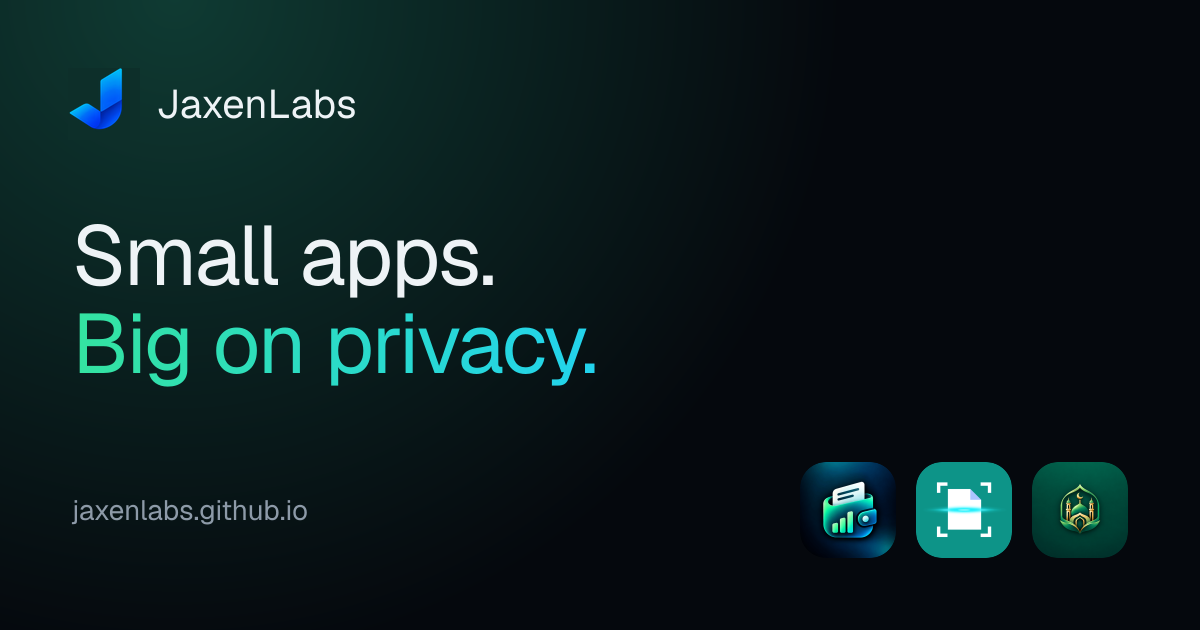
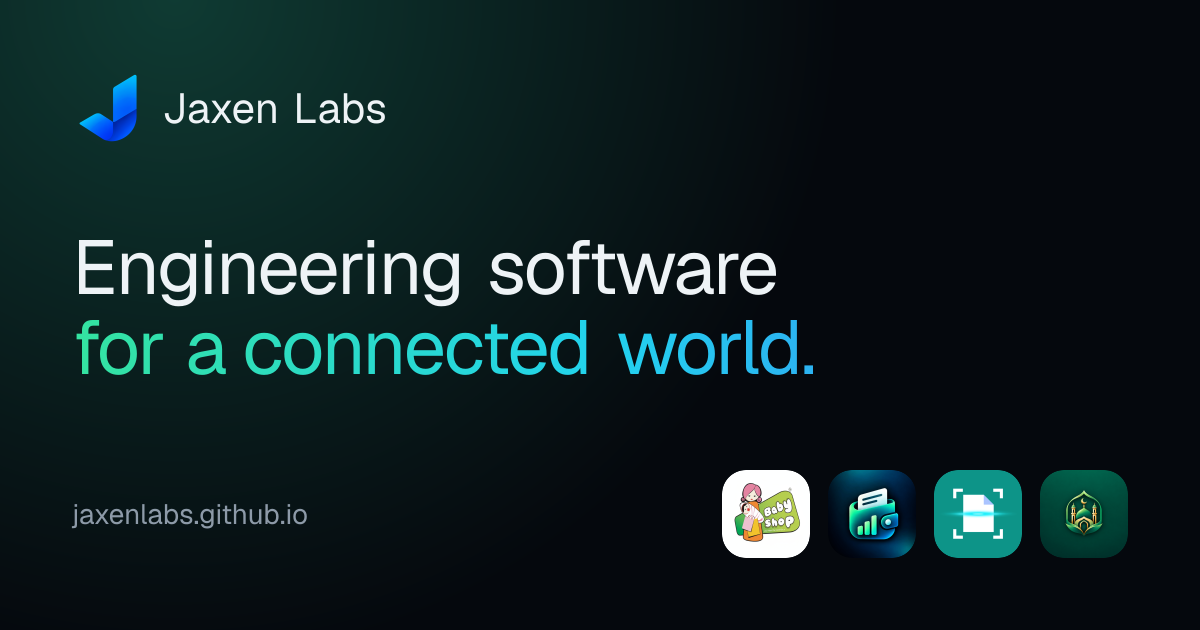
Rename the company to Jaxen Labs
- Site name, page titles, header, footer and copy now read "Jaxen Labs"
- "JaxenLabs" kept as alternateName and keyword so both spellings match
- Share image regenerated with the new name, logo, headline and all four
  products
- URLs, email and legal text copied from the apps are unchanged

diff --git a/src/app/[slug]/page.tsx b/src/app/[slug]/page.tsx
@@ -8,6 +8,7 @@ import { Icon } from "@/components/Icon";
 import { JsonLd } from "@/components/JsonLd";
 import { StoreListingView } from "@/components/StoreListingView";
 import { apps, getApp } from "@/content/apps";
+import { site } from "@/content/site";
 import { appJsonLd, pageMetadata } from "@/lib/seo";
 
 type Props = { params: Promise<{ slug: string }> };
@@ -187,7 +188,7 @@ export default async function AppPage({ params }: Props) {
 
       {others.length > 0 && (
         <section className="mx-auto max-w-6xl px-4 pt-24 sm:px-6">
-          <h2 data-reveal className="font-display text-2xl font-bold tracking-tight">More from JaxenLabs</h2>
+          <h2 data-reveal className="font-display text-2xl font-bold tracking-tight">More from {site.name}</h2>
           <div className="mt-6 grid gap-4 sm:grid-cols-2">
             {others.map((o, i) => (
               <Link

diff --git a/src/app/page.tsx b/src/app/page.tsx
@@ -184,7 +184,7 @@ export default function HomePage() {
           <div className="relative text-center">
             <h2 className="font-display text-3xl font-bold tracking-tight sm:text-5xl">Let&apos;s build something reliable.</h2>
             <p className="mx-auto mt-3 max-w-md text-muted">
-              Have a project, a question or an idea? Email us, or follow JaxenLabs on Facebook.
+              Have a project, a question or an idea? Email us, or follow Jaxen Labs on Facebook.
             </p>
           </div>
           <div className="relative mt-10 text-left">

diff --git a/src/components/SolarSystem.tsx b/src/components/SolarSystem.tsx
@@ -40,7 +40,7 @@ export function SolarSystem({ apps }: { apps: AppInfo[] }) {
         <span className="absolute inset-[-6%] rounded-full bg-surface-strong shadow-[0_0_60px_-6px_rgb(34_211_238/0.6)] ring-1 ring-border backdrop-blur-xl" />
         <Image
           src="/logo.png"
-          alt="JaxenLabs logo"
+          alt="Jaxen Labs logo"
           width={200}
           height={200}
           priority

diff --git a/src/lib/seo.ts b/src/lib/seo.ts
@@ -55,6 +55,7 @@ export function organizationJsonLd() {
         "@type": "Organization",
         "@id": `${site.url}/#organization`,
         name: site.name,
+        alternateName: "JaxenLabs",
         url: `${site.url}/`,
         logo: `${site.url}/logo.png`,
         email: site.contactEmail,

diff --git a/src/content/site.ts b/src/content/site.ts
@@ -1,6 +1,6 @@
 /** Company-wide details used in the header, footer and metadata. */
 export const site = {
-  name: "JaxenLabs",
+  name: "Jaxen Labs",
   url: "https://jaxenlabs.github.io",
   tagline: "Reliable, scalable, innovative software.",
   description:

diff --git a/src/app/layout.tsx b/src/app/layout.tsx
@@ -22,6 +22,7 @@ export const metadata: Metadata = {
   publisher: site.name,
   keywords: [
     site.name,
+    "JaxenLabs",
     "software company",
     "software engineering",
     "mobile app development",
